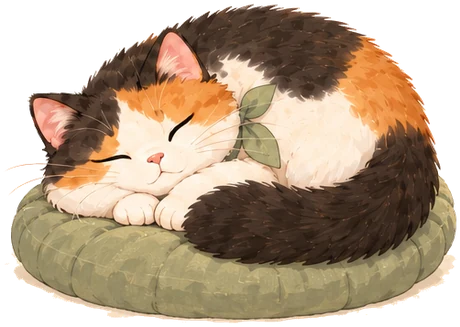
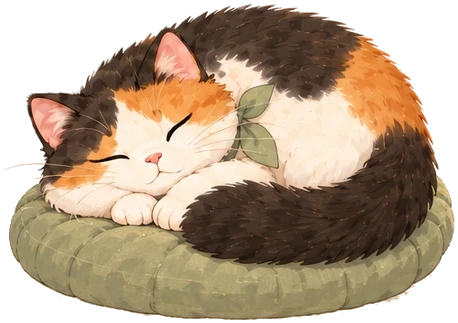
fix(tuanzi-v2): cleanly remove paw/cushion ground shadows and Day 30 layer & HUD overlap

diff --git a/jigsaw-nook-taptap/prototype/tuanzi-v2/app.js b/jigsaw-nook-taptap/prototype/tuanzi-v2/app.js
@@ -195,9 +195,19 @@ function commit(nextState) {
    RENDER: NOOK MAIN SCENE + IN-SITU DECOR LAYERS + LIVE TUANZI
    ========================================================= */
 function renderInSituDecorLayers(showEvolved) {
+  const plateEl = $('day1-plate-canvas');
   const layersEl = $('decor-layers');
   const slotsEl = $('decor-slots-overlay');
   const eq = state.equippedDecor || {};
+
+  // Day 30 / 跨季重逢雪夜使用独立全绘雪夜底图，严禁 Day 1 原地摆件贴片透出叠压
+  if (showEvolved) {
+    if (plateEl) plateEl.style.opacity = '0';
+    layersEl.innerHTML = '';
+    slotsEl.innerHTML = '';
+    return;
+  }
+  if (plateEl) plateEl.style.opacity = '1';
 
   // 渲染 7 个原地融合羽化贴片（严格锁定原生 768×1376 百分比坐标，零贴纸漂移！）
   const patchHtml = [];
@@ -263,8 +273,8 @@ function renderNook() {
     weather: decorMode && decorNightPreview ? 'snow' : view.weather,
     isEvolved: showEvolved,
     dustLevel: decorMode ? 0 : state.dustLevel,
-    lampGlow: deskItem?.lampGlow || null,
-    hasJellyGlow: eq.shelf1L === 's1l-jellyfish',
+    lampGlow: showEvolved ? null : (deskItem?.lampGlow || null),
+    hasJellyGlow: showEvolved ? false : (eq.shelf1L === 's1l-jellyfish'),
     nightPreview: decorMode && decorNightPreview,
   });
   canvas.classList.toggle('interactive-dust', !decorMode && state.dustLevel > 0);
@@ -278,6 +288,7 @@ function renderNook() {
   $('plaque-sub').textContent = plaqueSub;
   $('hud-coins').textContent = String(state.coins);
 
+  $('btn-open-gacha').style.display = view.hasPendingReunion ? 'none' : 'flex';
   const tickets = state.tickets || 0;
   $('gacha-ticket-badge').style.display = tickets > 0 ? 'flex' : 'none';
   $('gacha-ticket-num').textContent = String(tickets);

diff --git a/jigsaw-nook-taptap/prototype/tuanzi-v2/styles.css b/jigsaw-nook-taptap/prototype/tuanzi-v2/styles.css
@@ -108,6 +108,11 @@ html, body {
   left: -3px;
   height: 100%;
   aspect-ratio: 768 / 1376;
+  z-index: 1;
+  transition: opacity 0.55s ease;
+}
+#room-bg-day30 {
+  z-index: 6;
 }
 .nook-plate-canvas .plate-base {
   position: absolute;
@@ -211,6 +216,7 @@ html, body {
 .vignette-soft {
   position: absolute;
   inset: 0;
+  z-index: 10;
   background:
     linear-gradient(180deg, rgba(35, 19, 10, 0.34) 0%, rgba(35, 19, 10, 0) 16%, rgba(35, 19, 10, 0) 74%, rgba(30, 16, 9, 0.56) 100%);
   pointer-events: none;
@@ -639,16 +645,17 @@ html, body {
 /* Dust wipe gentle whisper cue */
 .dust-cue {
   position: absolute;
-  top: 112px;
-  left: 50%;
-  transform: translateX(-50%);
-  width: 214px;
+  top: 104px;
+  left: 0;
+  right: 0;
+  margin: 0 auto;
+  width: 208px;
   height: 44px;
   z-index: 22;
   display: flex;
   align-items: center;
   justify-content: center;
-  padding: 0 28px;
+  padding: 0 24px;
   pointer-events: none;
   animation: gentleBob 3.2s ease-in-out infinite;
 }

diff --git a/jigsaw-nook-taptap/prototype/tuanzi-v2/index.html b/jigsaw-nook-taptap/prototype/tuanzi-v2/index.html
@@ -34,7 +34,7 @@
           <div class="tuanzi-actor pose-nap" id="tuanzi-actor" title="点一点摸摸团子">
             <img id="tuanzi-sprite" src="./assets/cat/tuanzi-nap.webp" alt="团子" />
           </div>
-          <div class="zzz-layer show" id="zzz-layer">
+          <div class="zzz-layer" id="zzz-layer">
             <span>z</span><span>z</span><span>z</span>
           </div>
 
